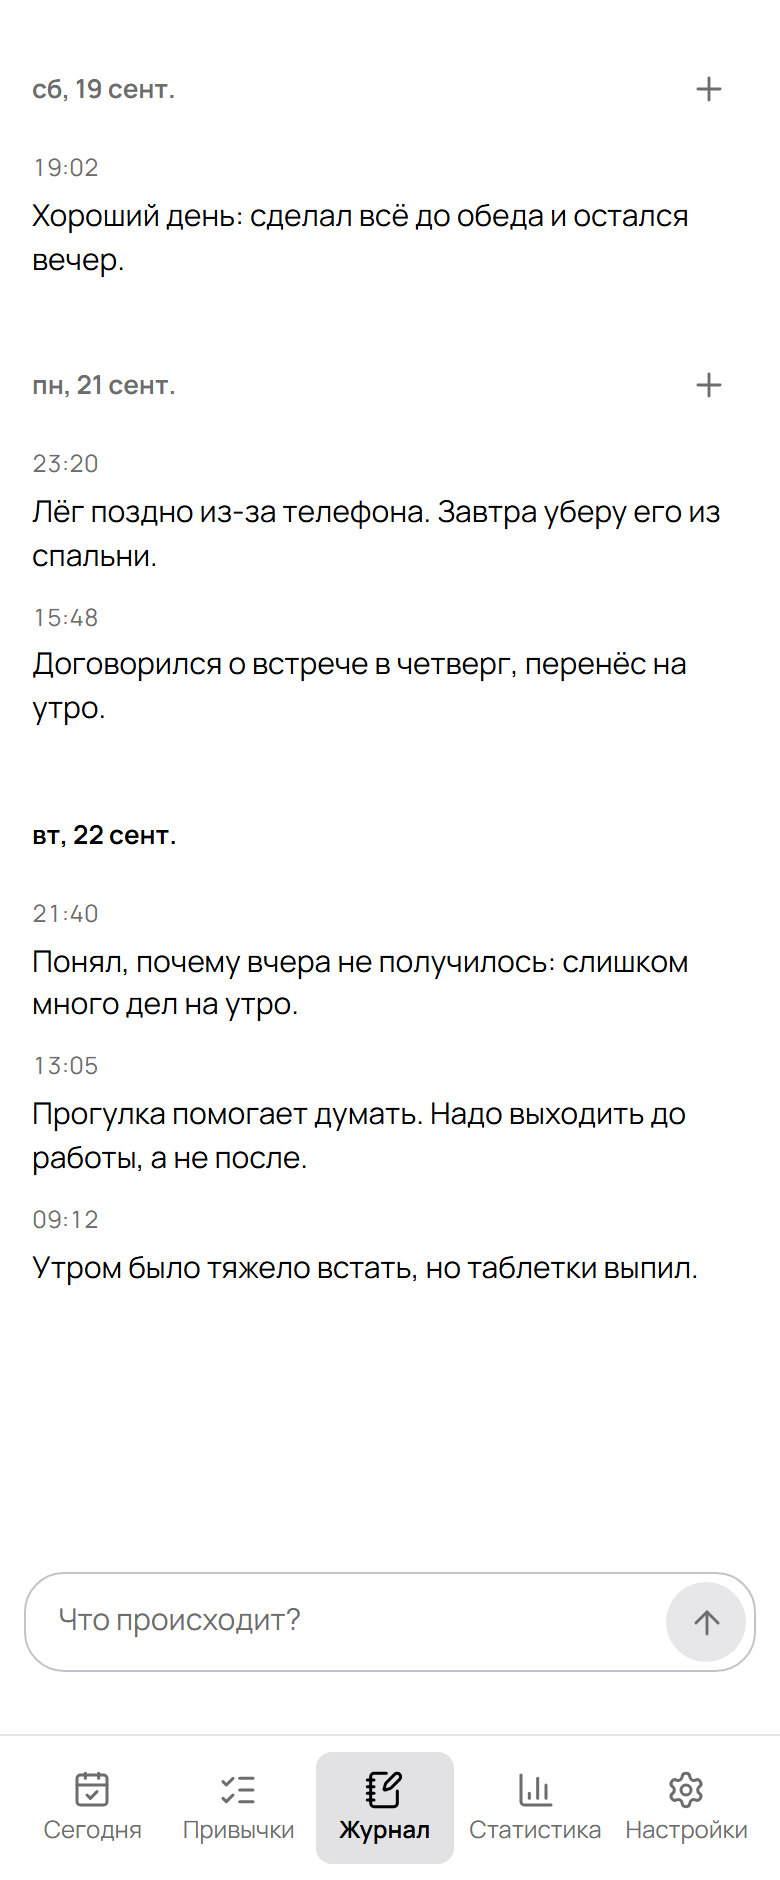
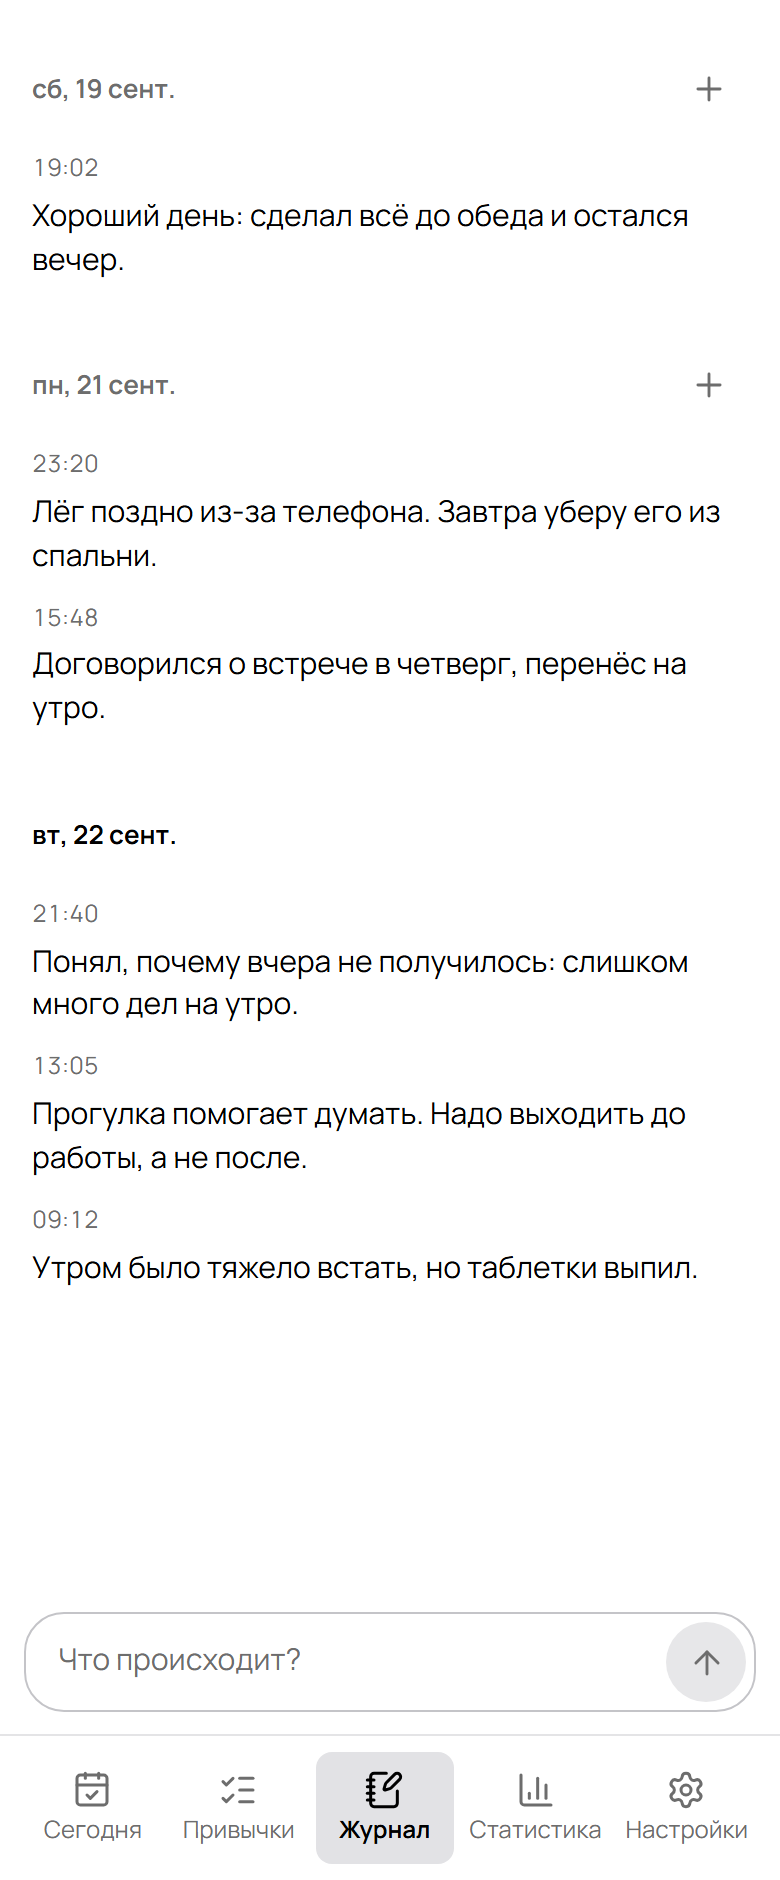
Воздух в журнале ровно 12px, контрол языка и темы 44px как соседние кнопки

Changed region(s): [[0.0308, 0.833, 0.4, 0.8947], [0.8923, 0.833, 0.9231, 0.8947], [0.9538, 0.8638, 0.9846, 0.8947]]

diff --git a/src/styles.css b/src/styles.css
@@ -549,15 +549,21 @@ html[data-typing='true'] .tabs {
   min-height: var(--row);
 }
 
-/* here the switch is a row control, so it keeps the full 44px tap height.
-   Both rows use one width: «Чёрная/Белая» is exactly as wide as «Русский/English». */
+/* here the switch is a row control, so the whole control is exactly 44px —
+   такой же высоты, как кнопка рядом в карточке «Данные». Внутренняя кнопка ниже
+   на padding и рамку контейнера (36 + 3 + 3 + 1 + 1), иначе сам контрол выше
+   соседних кнопок на 8px, хотя кажется, что он им ровня.
+   Both rows use one width: «Тёмная/Светлая» is exactly as wide as «Русский/English». */
 .set-row .segmented {
-  width: 176px;
+  box-sizing: border-box;
+  align-self: center;
+  height: var(--control);
+  width: 168px;
 }
 
 .set-row .segmented button {
   flex: 1 1 0;
-  min-height: var(--control);
+  min-height: calc(var(--control-sm) + var(--s1));
 }
 
 /* two equal actions: same shape, same weight, one decision.
@@ -1297,11 +1303,10 @@ html[data-typing='true'] .tabs {
   position: fixed;
   left: 0;
   right: 0;
-  /* Панель шире своей коробки на нижний padding, а сама она отступает от меню на
-     --s5: между коробкой и меню выходит 20px воздуха (8px padding + 12px зазора),
-     фон панели не липнет к меню. Когда человек пишет, меню уезжает, панель встаёт
-     на его место (bottom: 0) и идёт вплотную к клавиатуре. */
-  bottom: calc(var(--tabs) + var(--s5) - env(safe-area-inset-bottom));
+  /* Панель отступает от меню на --s1, поэтому между коробкой композера и меню
+     ровно 12px: 8px нижнего padding панели плюс 4px зазора. Когда человек пишет,
+     меню уезжает, панель встаёт на его место (bottom: 0) вплотную к клавиатуре. */
+  bottom: calc(var(--tabs) + var(--s1) - env(safe-area-inset-bottom));
   z-index: 9;
   display: flex;
   flex-direction: column;

diff --git a/public/sw.js b/public/sw.js
@@ -1,6 +1,6 @@
 /* deeptracker service worker — offline app shell.
    Bump CACHE_VERSION whenever the shell (index.html / icons) changes. */
-const CACHE_VERSION = 'deeptracker-v20';
+const CACHE_VERSION = 'deeptracker-v21';
 
 const CORE = [
   './',

diff --git a/docs/technical.md b/docs/technical.md
@@ -139,10 +139,9 @@ scripts/
   заметки тоже старые сверху, новые снизу: новая мысль всегда встаёт туда, где на неё смотришь.
 - **Ни одной разделительной линии.** Дни и заметки разделяет только воздух (`--s6` между днями, `--s3`
   между заметками), а страницу держат даты. Линия над панелью тоже убрана: композер читается своей
-  рамкой, а не чертой во всю ширину. **До меню — воздух**: панель отступает от него на `--s5`, поэтому
-  между коробкой и меню выходит 20px (8px padding панели + 12px зазора), и фон панели не липнет к меню;
-  под коробкой при этом остаётся ровно её padding (8px), так что заголовок и поле не дёргаются,
-  когда меню уезжает.
+  рамкой, а не чертой во всю ширину. **До меню — 12px**, и это буквально размер: панель отступает от
+  меню на `--s1`, под коробкой остаётся её padding `--s2`, в сумме 8 + 4 = 12px. Больше не надо: фон
+  панели и меню — одна краска, и зазор в 20px читался как дыра, а не как воздух.
 - В дне нет ничего, кроме даты и текста: ни прогресса по привычкам, ни счётчиков. Заголовок дня — дата
   словами (`formatDay`), у сегодняшней даты цвет `--fg`, у прошлых — `--muted`. Светлых слов в ленте
   ровно два: сегодня и день, в который пишет поле.
@@ -208,8 +207,9 @@ scripts/
 - «Интерфейс» — две строки: подпись слева, маленький переключатель справа. Раньше это были две
   полноширинные плашки по 44px на бинарный выбор — самый тяжёлый элемент в приложении. У обоих
   переключателей **одна ширина** (176px, половины равные): «Тёмная/Светлая» ровно такой же ширины, как
-  «Русский/English», иначе две строки одного смысла выглядят разными. Высота у обоих контролов —
-  `--control` (44px), как у кнопок данных: две строки одного смысла одной высоты.
+  «Русский/English», иначе две строки одного смысла выглядят разными. Высота контрола — ровно
+  `--control` (44px), как у кнопок данных: высота задана **контейнеру**, а внутренняя половина ниже
+  на padding и рамку (36 + 3 + 3 + 1 + 1 = 44), иначе сам контрол выходил бы на 8px выше соседей.
   Тема названа по тому, что человек видит, — тёмная и светлая, а не чёрная и белая.
 - «Данные» — две **одинаковые** кнопки (скачать / загрузить) во всю ширину карточки, строка состояния
   бэкапа и «опасная зона» ниже. Ручная вставка JSON убрана: бэкап скачивают и загружают файлом, а поле
